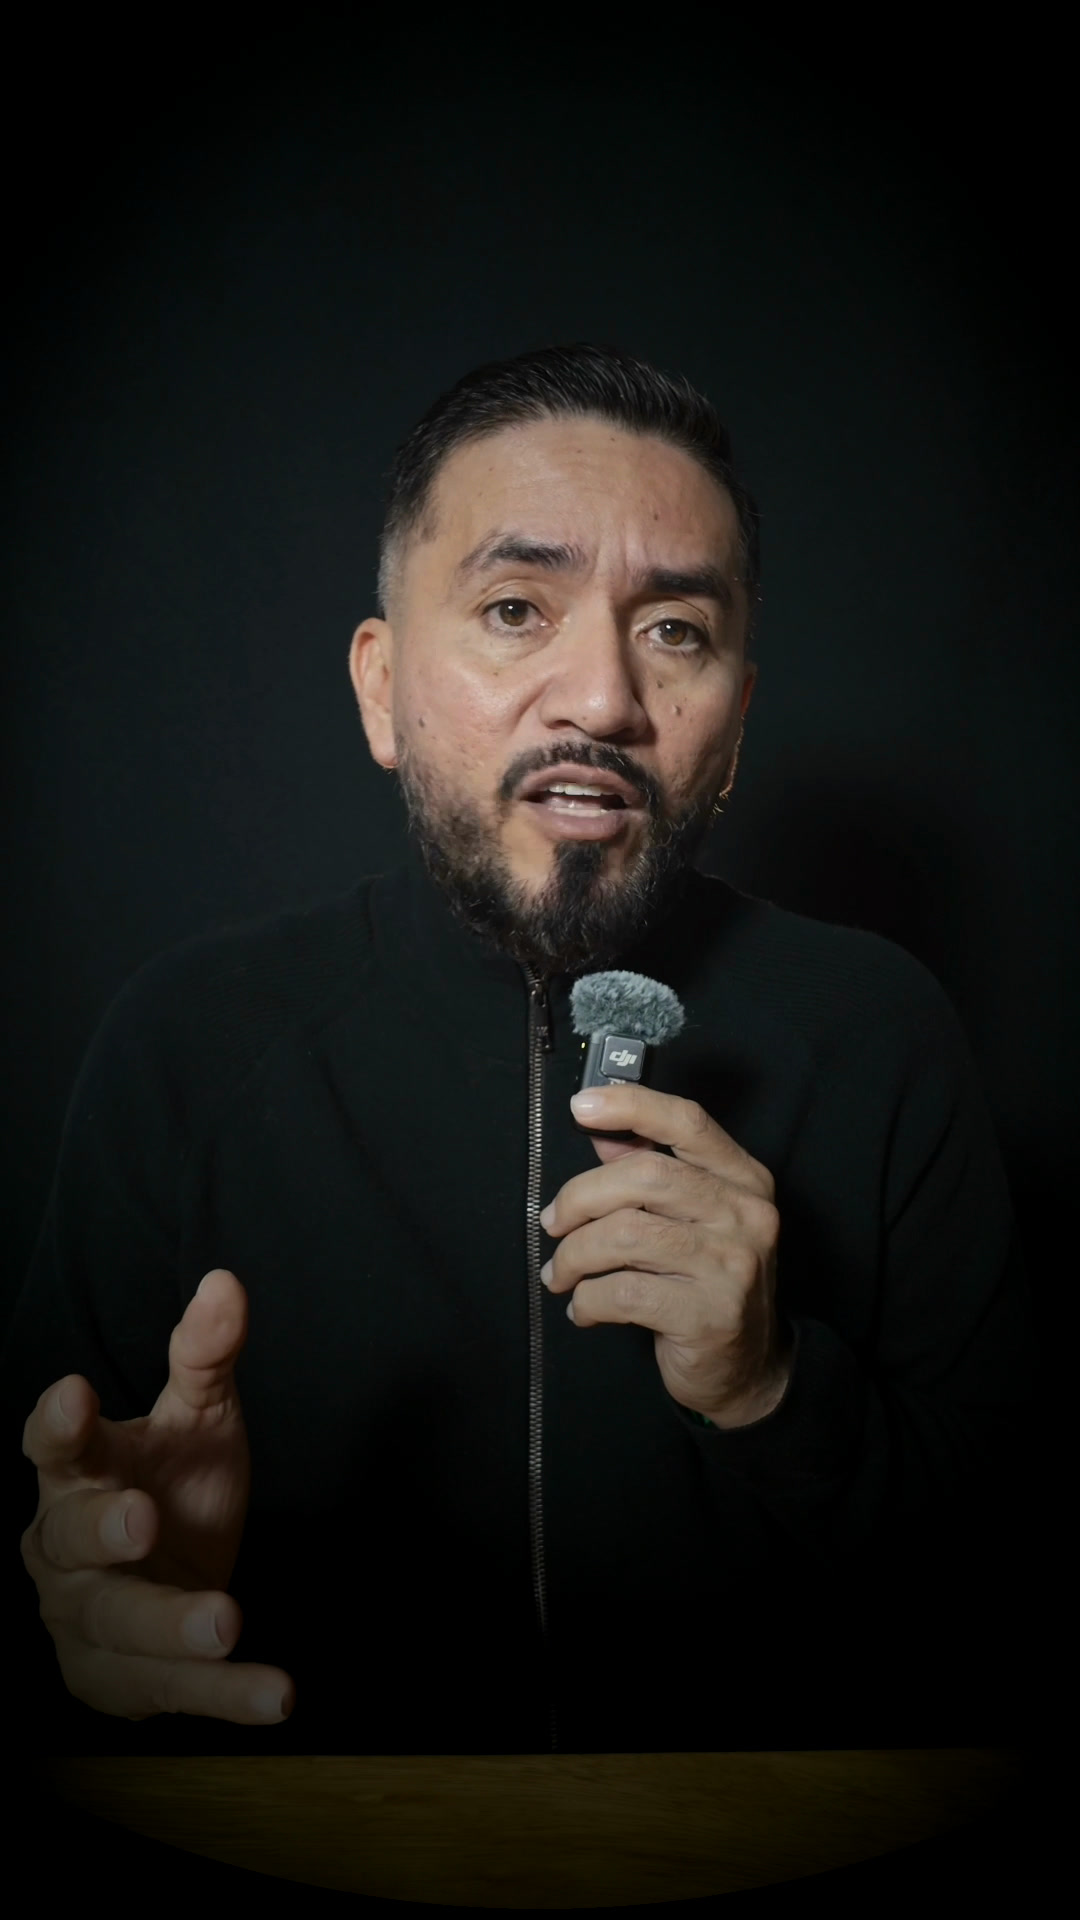
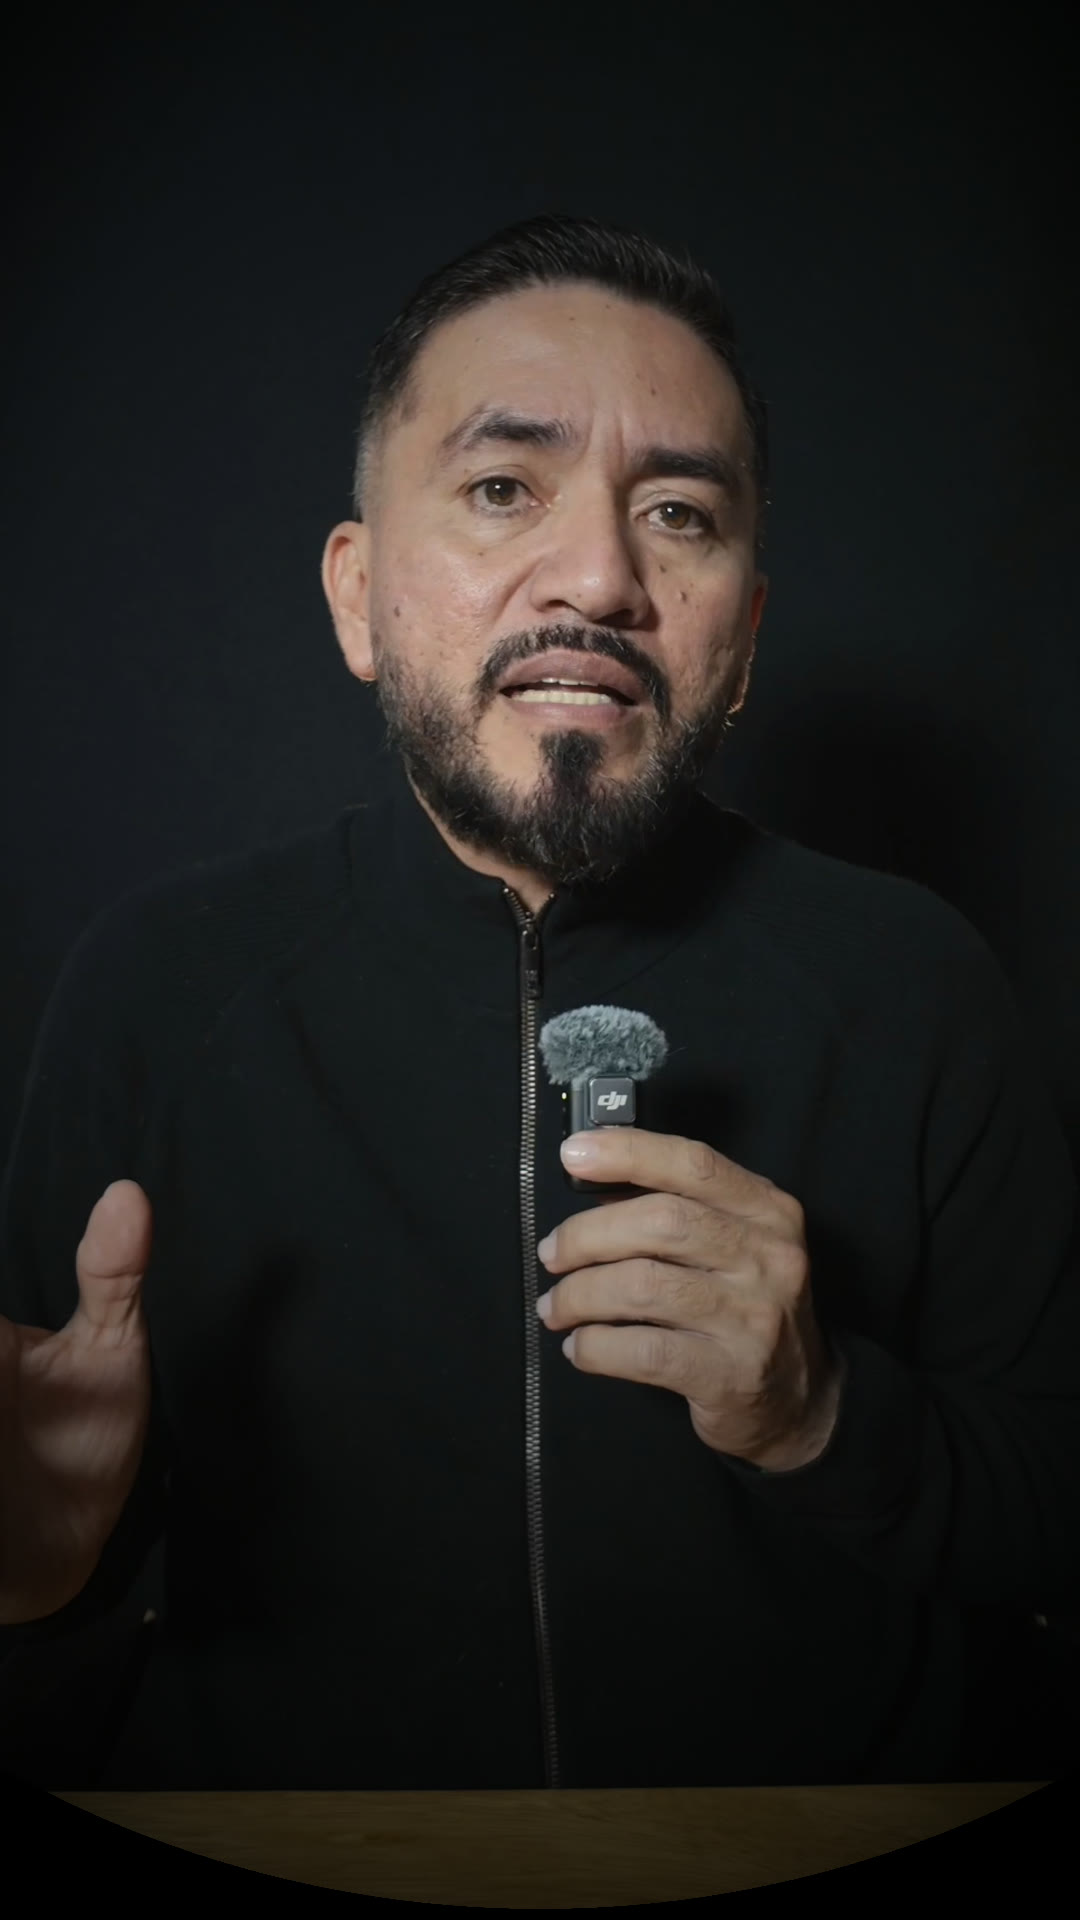
fix(video-plan): suprimir tooltip del orbe + poster al nuevo encuadre
- UnifiedQueswaOrb: /video-plan-servilleta entra en suppressTooltip (igual
  que reels y Home) — el tooltip "Concierge" genérico interfería con el
  video; HomeManifestoVideo ya controla su propia burbuja.
- Poster regenerado con el reencuadre 1.12x (línea de ojos al tercio superior).

diff --git a/src/components/UnifiedQueswaOrb.tsx b/src/components/UnifiedQueswaOrb.tsx
@@ -159,9 +159,10 @@ export default function UnifiedQueswaOrb() {
     return seg.length === 2 && (REEL_NICHOS as readonly string[]).includes(seg[1])
   })()
 
-  // Home: el video manifiesto controla su propia burbuja (HomeManifestoVideo) —
-  // el tooltip genérico interferiría con el video y el chip de sonido.
-  const suppressTooltip = isReelRoute || pathname === '/'
+  // Home y /video-plan-servilleta: el video manifiesto controla su propia burbuja
+  // (HomeManifestoVideo) — el tooltip genérico interferiría con el video y el chip
+  // de sonido, igual que en las páginas de reel.
+  const suppressTooltip = isReelRoute || pathname === '/' || pathname === '/video-plan-servilleta'
 
   // Catálogo (/sistema/productos): Queswa es asesor de salud y bienestar, no de
   // negocio → el tooltip del orbe se enfoca en asesoría, no en "empresa digital".